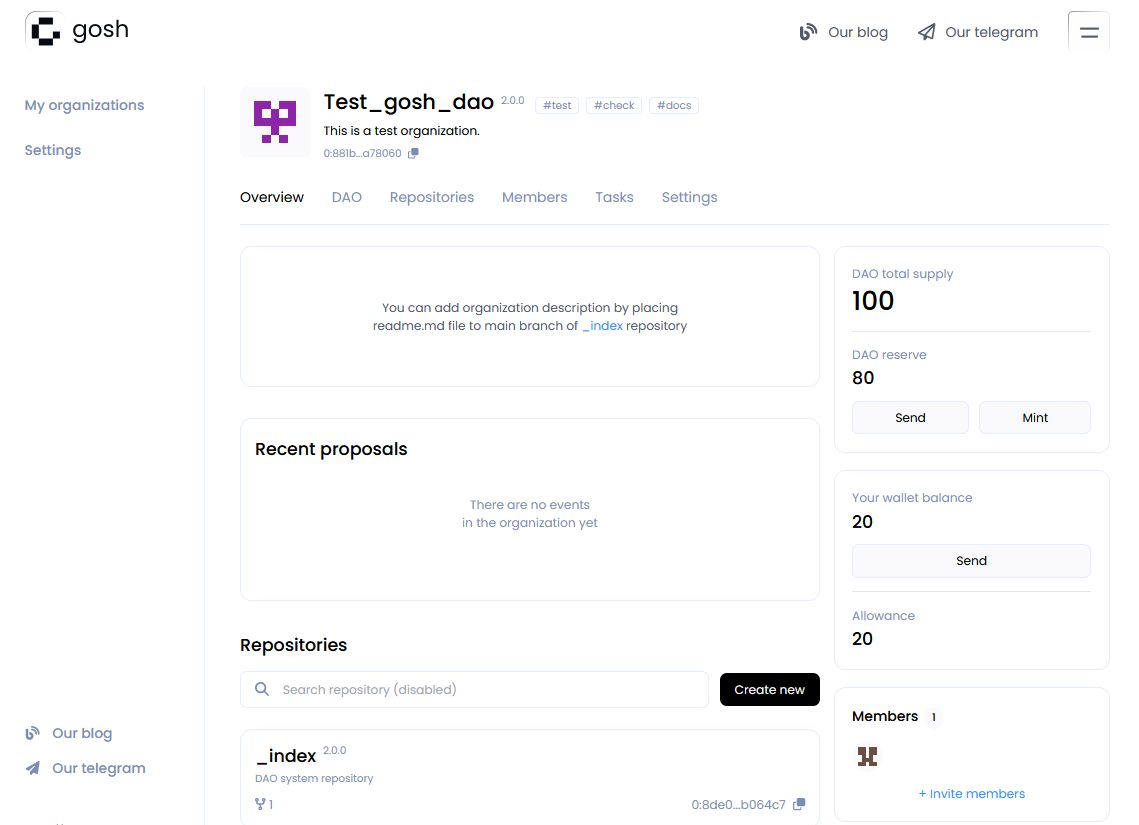
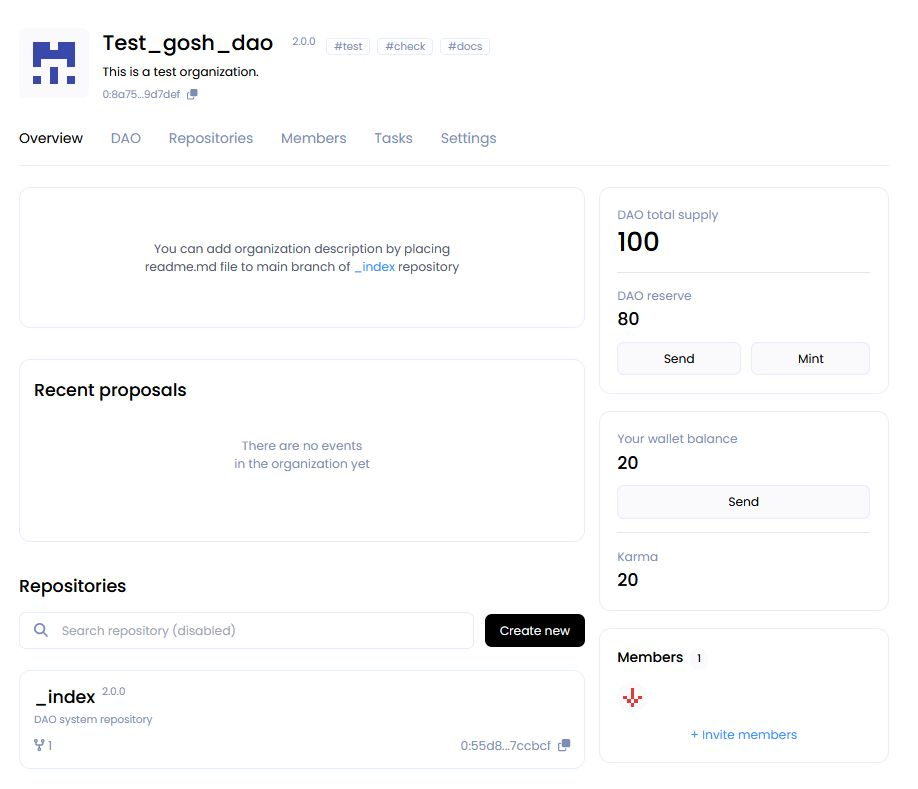
WIP update create repo and overview

diff --git a/docs/working-with-gosh/gosh-web.md b/docs/working-with-gosh/gosh-web.md
@@ -229,7 +229,7 @@ On the DAO settings page that opens, input:
     In the future, it will be possible to disable the emission of DAO tokens through proposal and voting in the [**Settings**](gosh-web.md#dao-set-up) section.
 
     !!! warning
-        If you uncheck this box during the initial setup, then the DAO tokens will never be issued.
+        If you uncheck this option, the number of tokens issued for this DAO will be capped to the number entered during the initial setup
 
 Click **Create organization**.
 
@@ -268,9 +268,9 @@ Information about DAO assets is displayed on the right.
     Push on the **SEND** button, you will to transfer your tokens to the DAO reserve or to the GOSH user.
 <!-- TODO -->
 
-* **Allowance** - the amount of tokens (upper limit) within which a DAO member can vote. 
+* **Karma** - the amount of tokens (upper limit) within which a DAO member can vote. 
 
-    It is assigned when accepted as a member of the DAO. This determines the reputation of the DAO member. The Allowance can be changed only by voting.
+    It is assigned when accepted as a member of the DAO. This determines the reputation of the DAO member. The Karma can be changed only by voting.
 
 ![](../images/gosh_web_OVERVIEW_02_wallet_balance.jpg)
 
@@ -356,19 +356,19 @@ Actions that require a DAO vote are performed by creating a proposal.
 * [**create a pull request**](gosh-web.md#create-pull-request)
 * **Add branch protection**
 * **Remove branch protection**
-* [**Add DAO member**](gosh-web/#add-members-to-organization)
+* [**Add DAO member**](gosh-web.md#add-members-to-organization)
 * **Remove DAO member**
 * **Upgrade DAO**
 * **Delete task**
 * **Create task**
-* [**Create repository**](gosh-web/#create-repository)
+* [**Create repository**](gosh-web.md#create-repository)
 * **Add voting tokens**
 * **Add regular tokens**
 * **Mint DAO tokens**
 * **Add DAO tag**
 * **Remove DAO tag**
 * **Disable minting DAO tokens**
-* **Change DAO member allowance**
+* **Change DAO member Karma**
 * **Multi proposal**
 * **Add repository tag**
 * **Remove repository tag**
@@ -376,7 +376,7 @@ Actions that require a DAO vote are performed by creating a proposal.
 * **Allow event discussions**
 * **Show event progress**
 * **Upgrade repository tags**
-* **Ask DAO membership allowance**
+* **Ask DAO membership Karma**
 
 <!-- 
 TODO 
@@ -410,7 +410,7 @@ kinds of proposals:
 27: 'Ask DAO membership allowance',  //ABILITY_INVITE_PROPOSAL_KIND = 27
 -->
 
-To create a proposal, or to vote for a proposal someone else created, some of your tokens need to be [allocated to SMV](gosh-web.md#send-tokens-to-smv) (once the proposal is completed), you can get them back.
+To create a proposal, or to vote for a proposal someone else created, some of your tokens need to be allocated to SMV (once the proposal is completed), you can get them back.
 
 !!! info
     You can vote for a proposal only once.
@@ -498,7 +498,7 @@ To view the command to clone your repo, click the **Clone** button on your repo 
 ### __Create Repository__
 
 
-To create a repository in your DAO click **Create new** in the Repositories section.
+To create a repository in your DAO click **Create new** in the Repositories section or Overview section.
 
 ![](../images/gosh_web_Create_Repo_01_new_repo.jpg)
 
@@ -525,12 +525,21 @@ The scale shows the number of votes for the proposal and against.
 
 ![](../images/gosh_web_Event_04_result.jpg)
 
-Specify the number of tokens within your allowance for voting and choose whether to accept or reject this proposal. 
+Specify the number of tokens less than or equal to your Karma for voting and accept or reject this proposal.
 
 Add your opinion about the proposal to the discussion below and click **Send vote**
 
 ![](../images/gosh_web_Event_05_vote.jpg)
 
+<!-- TODO
+remove this images -->
+When the voting is over, its status will change to Accepted.
+
+![](../images/gosh_web_Event_05_vote_result.jpg)
+
+The created repository will appear in the list on the Repositories tab.
+
+![](../images/gosh_web_Create_Repo_04_repo_created.jpg)
 
 ### __Create Branch__
 
@@ -538,7 +547,6 @@ Add your opinion about the proposal to the discussion below and click **Send vot
 Repository is created with default main branch. To create another branch, click on the **branches** counter.
 
 ![](../images/gosh_web_Create_branch_01.jpg)
-
 
 
 Select the branch to be forked, enter new branch name, and click **Create branch**.

diff --git a/docs/on-chain-architecture/organizations-gosh-dao-and-smv.md b/docs/on-chain-architecture/organizations-gosh-dao-and-smv.md
@@ -13,7 +13,7 @@ Once more than one user is [added to a DAO](../working-with-gosh/gosh-web.md#add
 <!-- DAO can be configured to require a vote of members for any action within the repository. -->
 Any actions in the DAO require a vote and are created using [proposals](../working-with-gosh/gosh-web.md#proposals-and-voting-in-smv-soft-majority-vote)
 
-For example, a user may propose a [commit](../working-with-gosh/gosh-web.md#create-file) to repository, and a [soft-majority vote](https://mitja.gitbook.io/papers/v/everscale-white-paper/readme/chapter-one-everscale/governance) of all other DAO members may be required to approve it.
+For example, a user may propose a [commit of file](../working-with-gosh/gosh-web.md#create-file) into repository, and a [soft-majority vote](https://mitja.gitbook.io/papers/v/everscale-white-paper/readme/chapter-one-everscale/governance) of all other DAO members may be required to approve it.
 
 [Branches](../working-with-gosh/gosh-web.md#create-branch) could be locked to required any changes to them to be voted by DAO SMV.
 
